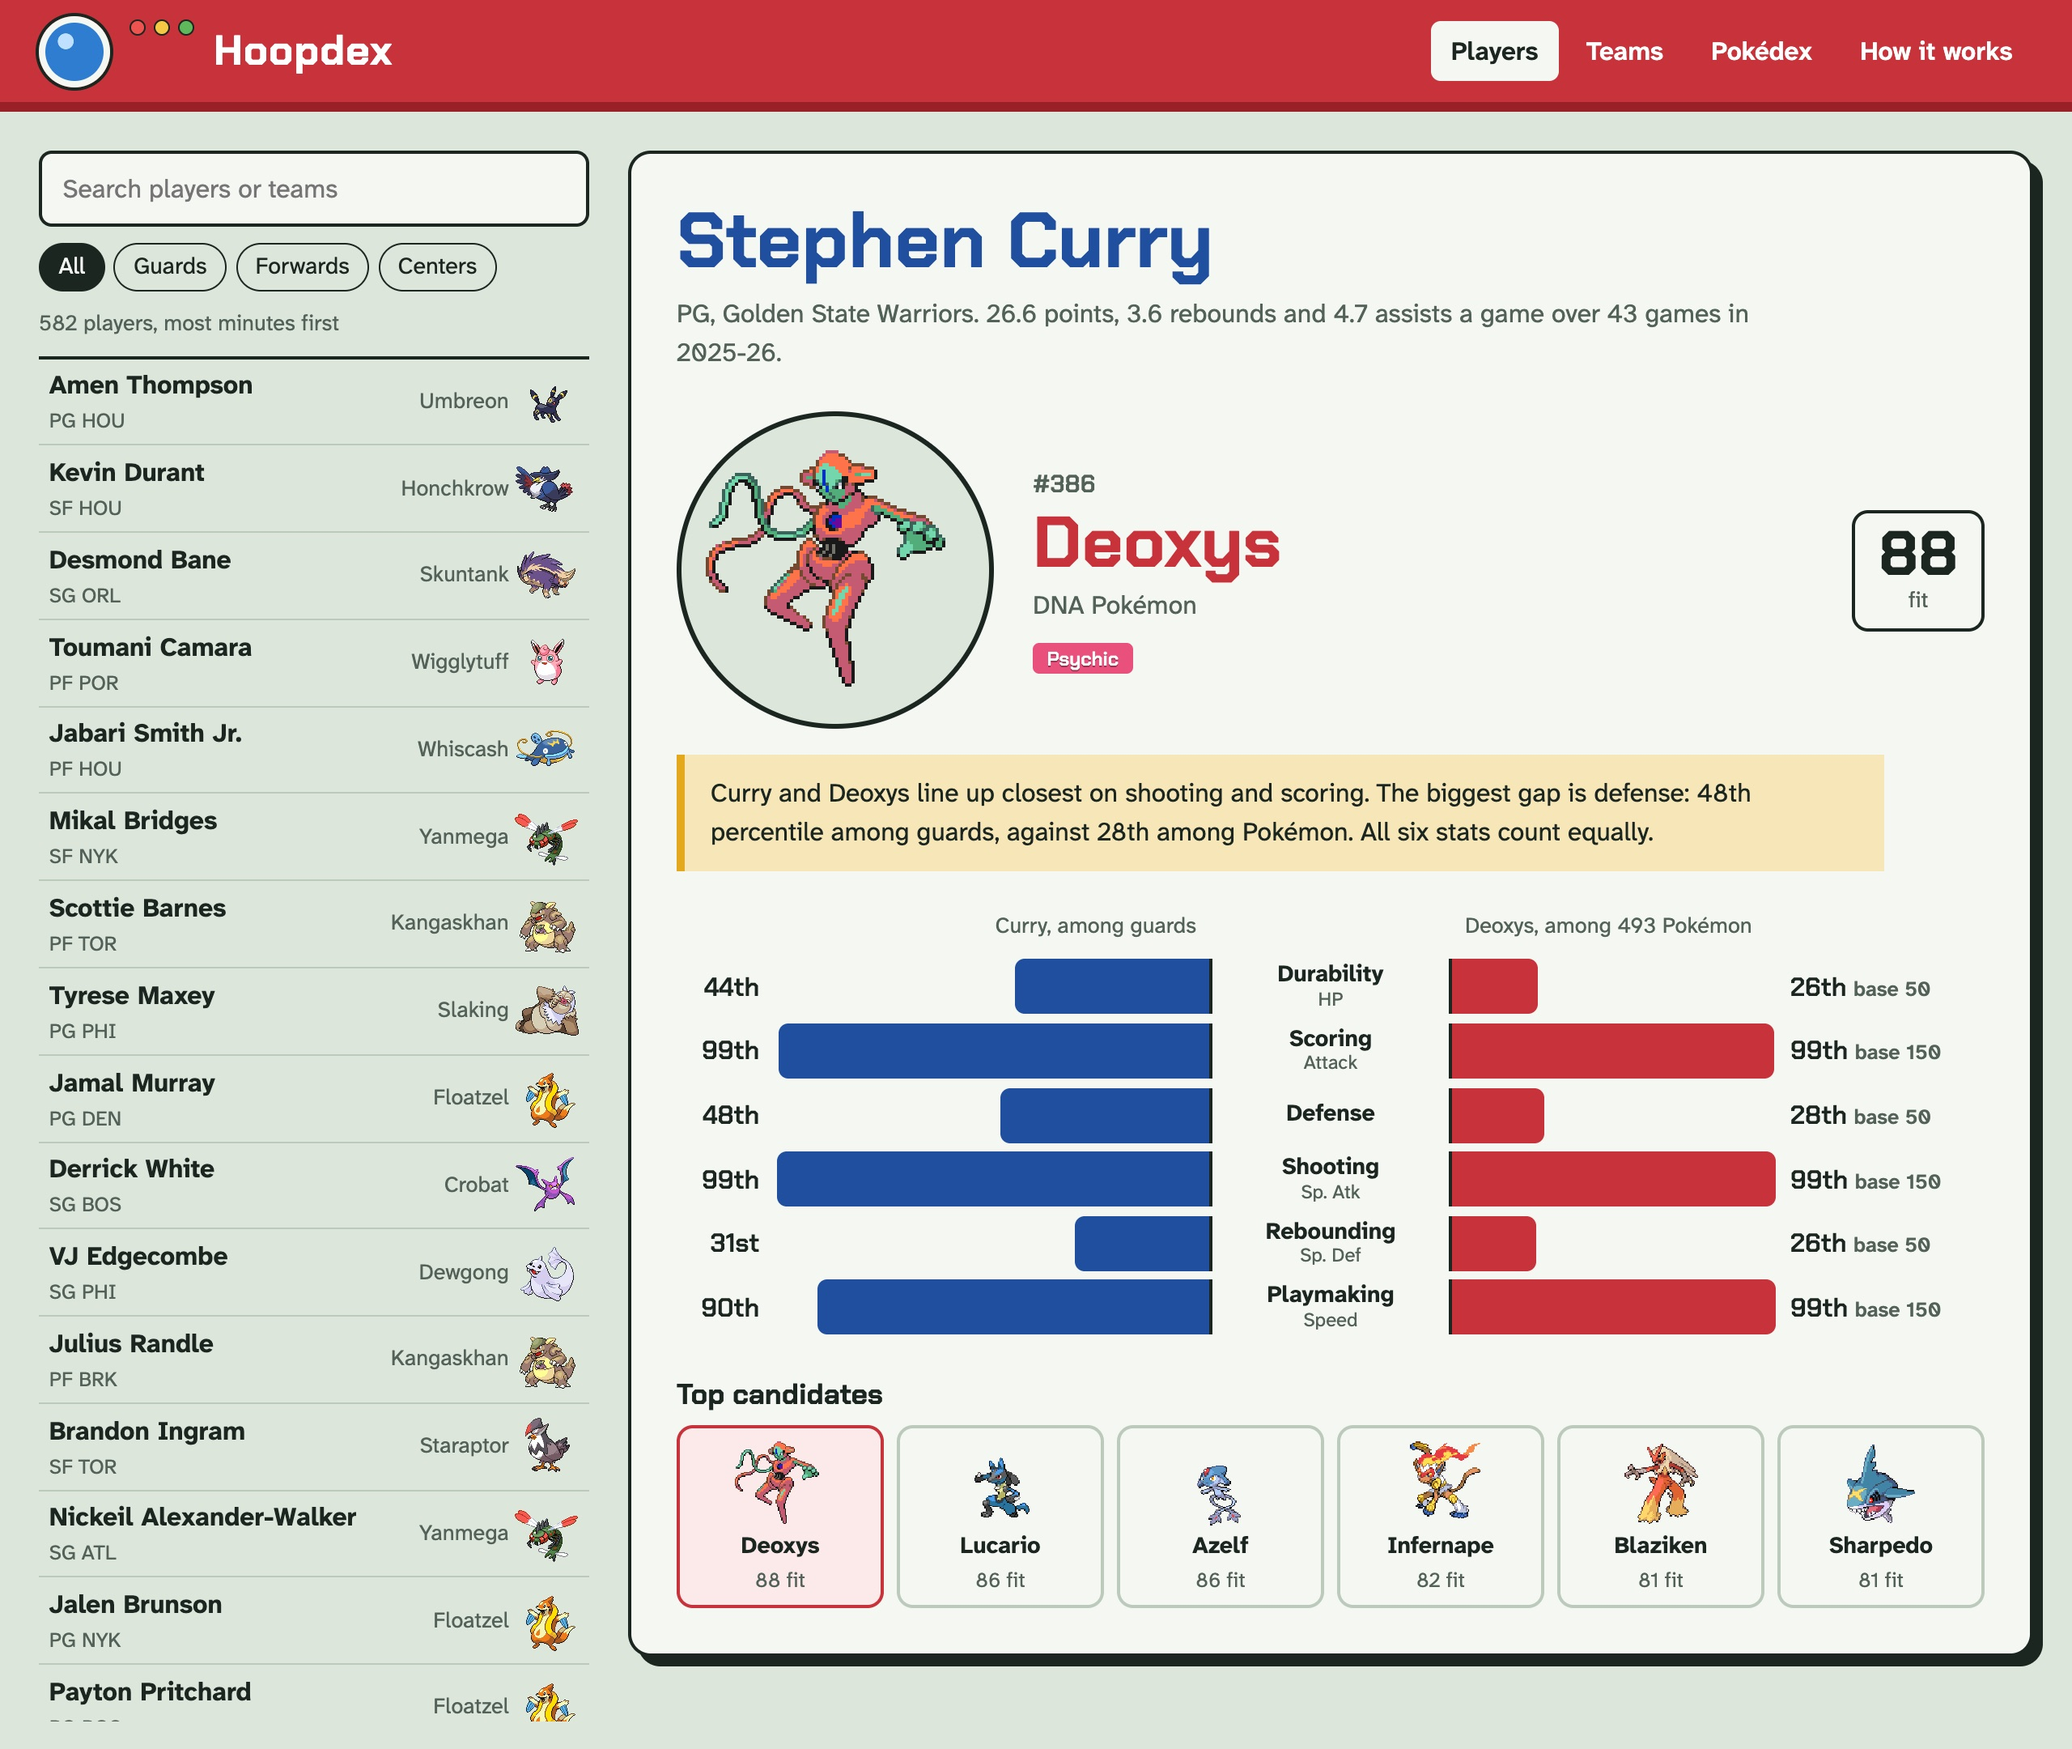
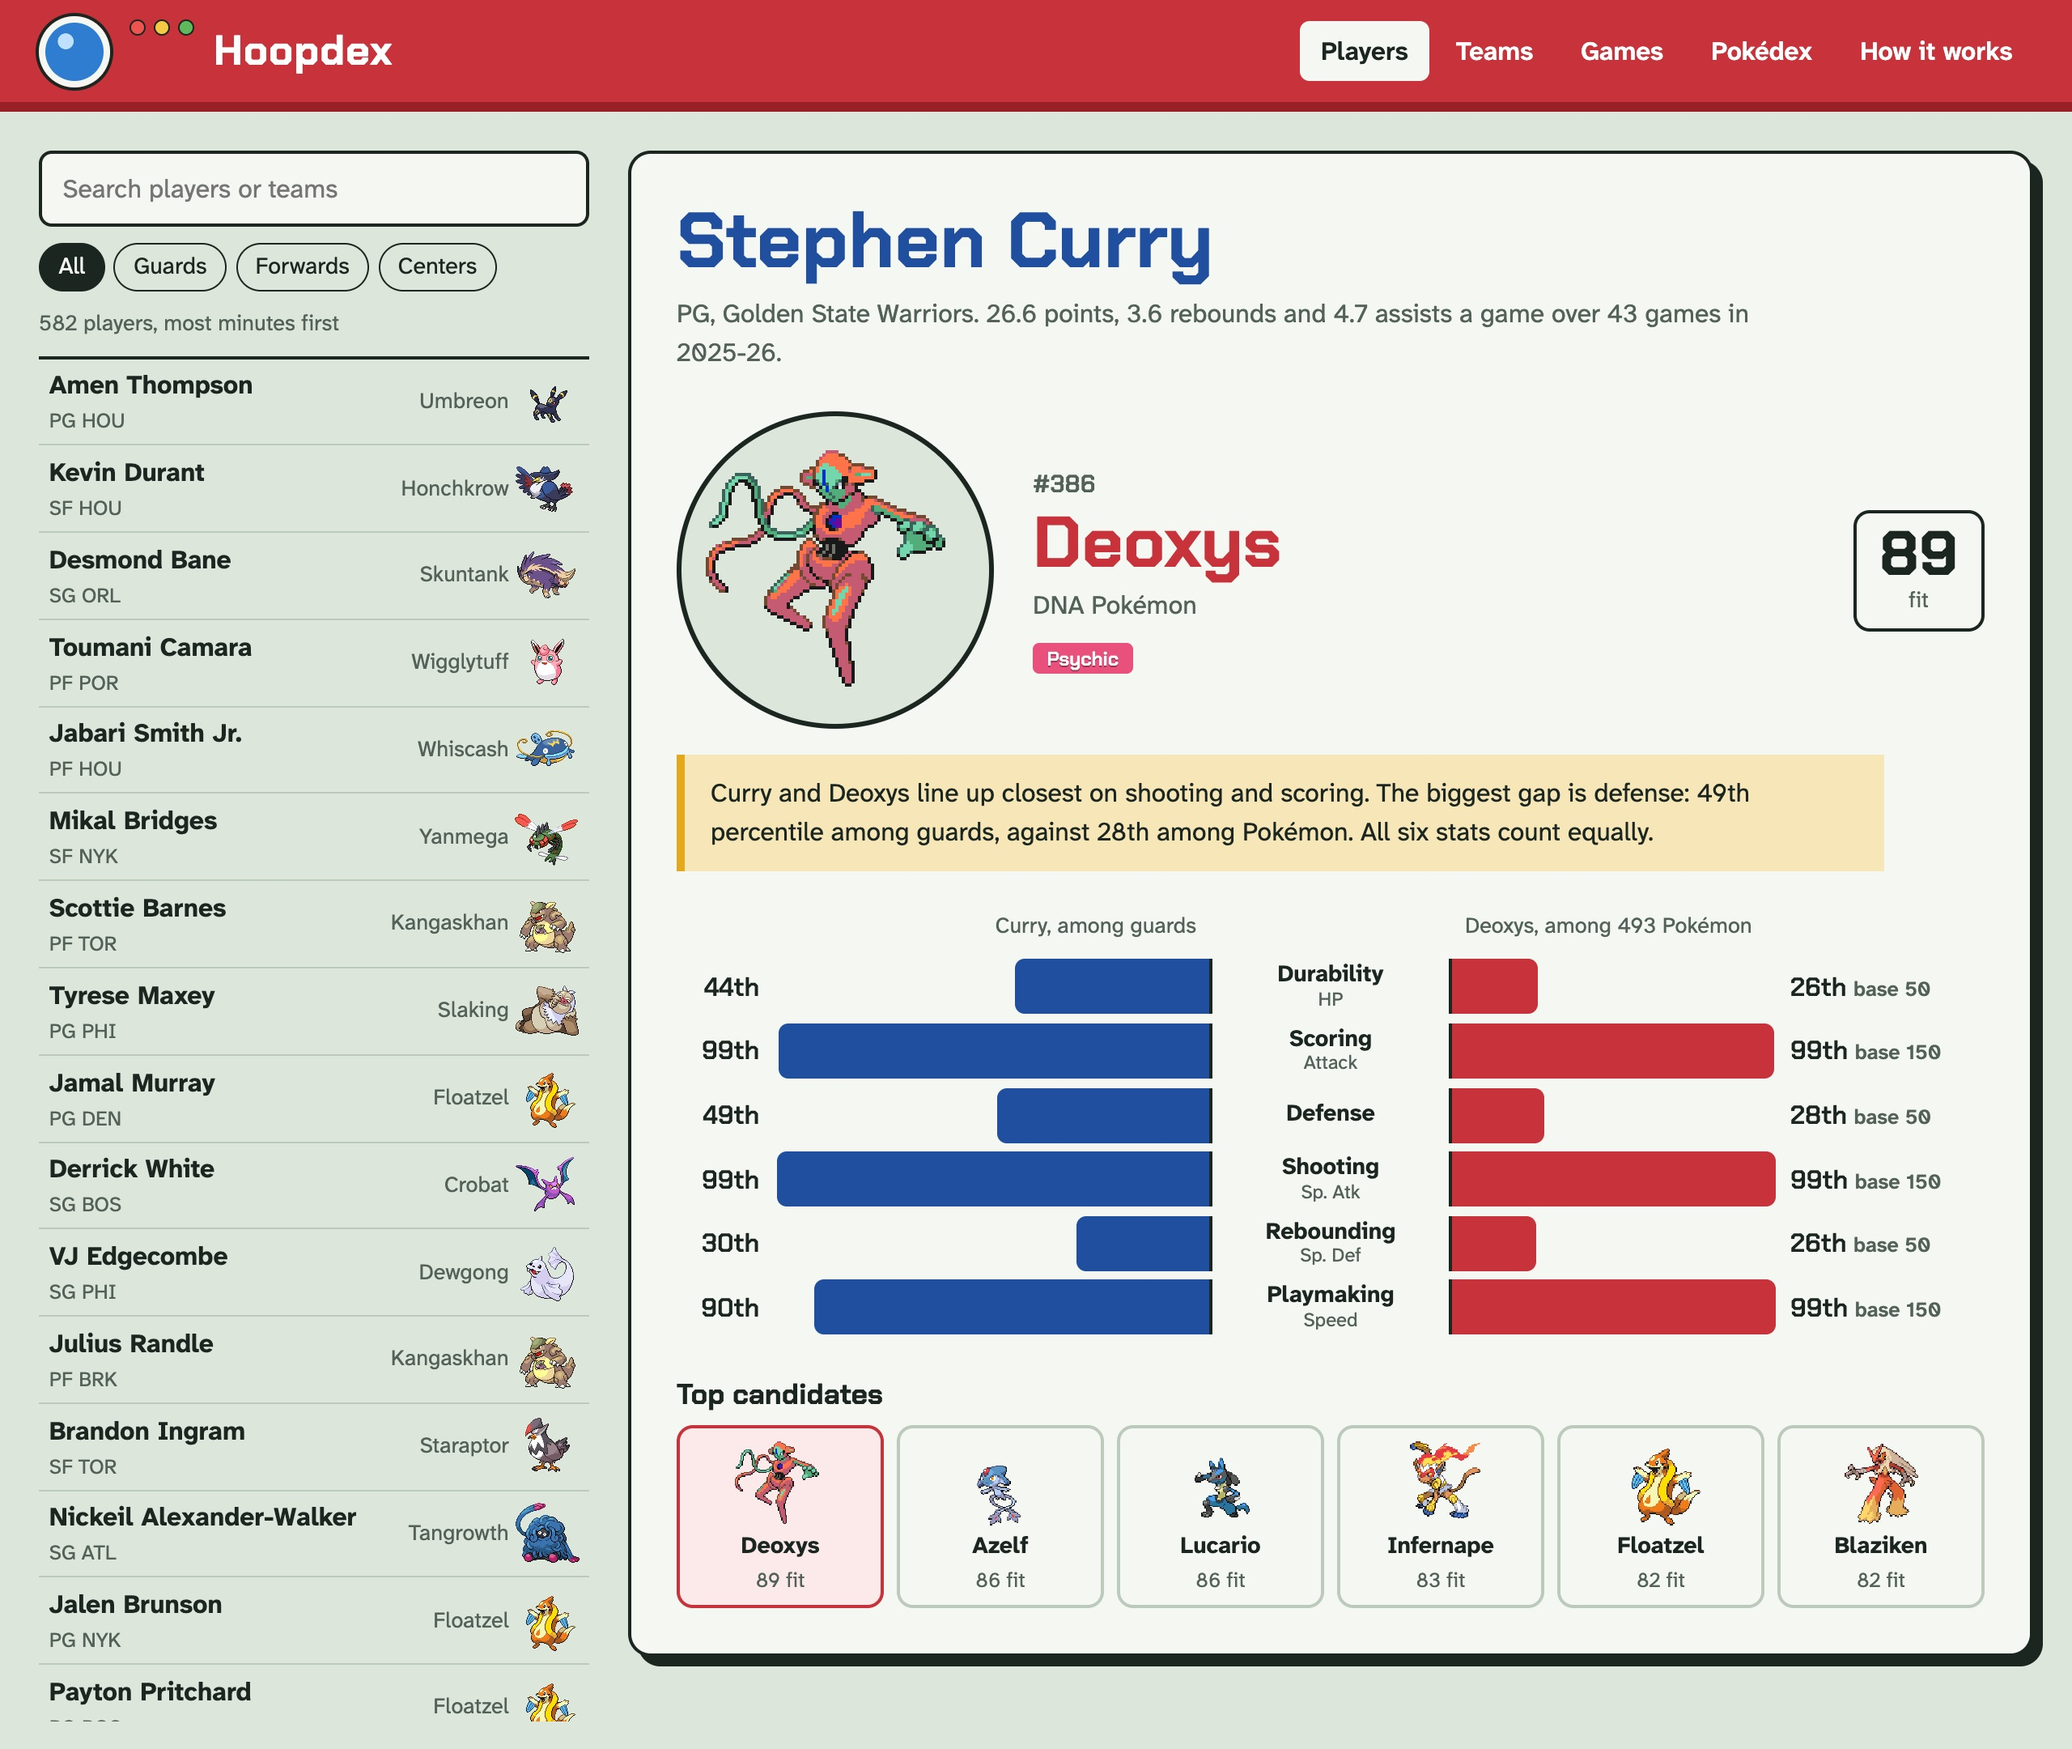
Document weighting and Games, and retake the screenshots

diff --git a/README.md b/README.md
@@ -8,8 +8,8 @@ Every NBA player matched to the Pokémon that plays like them, from Bulbasaur to
 
 Hoopdex turns a player's advanced stats and a Pokémon's base stats into percentiles, then
 finds the Pokémon whose six stats line up closest with the player's. Curry, elite at scoring,
-shooting and playmaking and average on defense, gets Deoxys. Jokić gets Rayquaza. It's
-free, needs no account, and runs entirely in your browser.
+shooting and playmaking and average on defense, gets Deoxys. Jokić and Wembanyama both get
+Groudon. It's free, needs no account, and runs entirely in your browser.
 
 ## How a player becomes a Pokémon
 
@@ -27,13 +27,28 @@ Each Pokémon stat stands for a basketball skill:
 1. **Players are ranked against their position.** Every player with 500+ minutes is ranked
    against the other guards, forwards or centers, so a forward in the 67th percentile on
    defense defends better than two thirds of forwards. Centers aren't marked down for not
-   passing like point guards. Skills with several metrics average their ranks, then rank
-   that average so it still runs from 1st to 99th.
+   passing like point guards. Skills with several metrics take a weighted average of their
+   ranks, then rank that average so it still runs from 1st to 99th.
 2. **Pokémon are ranked against the whole Pokédex.** All 493 gen 1-4 Pokémon are ranked on
    each base stat.
-3. **The closest Pokémon on all six stats wins.** Every stat counts equally, and the gap is
-   a root mean square, so one big miss costs more than several small ones. The fit score is
-   100 minus that gap: a 90 means the two sit within about ten percentile points everywhere.
+3. **Steadier numbers count for more.** Each metric is weighted by how well it holds up from
+   one season to the next for the same players, and so is each of the six stats in the match.
+   Assist rate and rebound rates are steady and count the most; true shooting and minutes
+   played (injuries) swing more and count less. See the weights below.
+4. **The closest Pokémon on all six stats wins.** All six always count, and the gap is a
+   weighted root mean square, so one big miss costs more than several small ones. The fit
+   score is 100 minus that gap: a 90 means the two sit within about ten percentile points.
+
+The weights are fitted by `scripts/reliability.ts` and were only kept because they beat equal
+weighting in a backtest. Fitted on one pair of seasons and tested on another, both ways round:
+
+| Test seasons | Profile drift, equal → weighted | Match still top 10 a year later |
+| ------------ | ------------------------------- | ------------------------------- |
+| 2024-25 → 2025-26 | 21.70 → 21.04 | 35.4% → 35.7% |
+| 2023-24 → 2024-25 | 20.04 → 19.39 | 38.5% → 41.1% |
+
+Lower drift means a player's profile moves less between seasons that the weights never saw.
+The weighted profiles were steadier in every one of 2,000 bootstrap resamples, both ways.
 
 Each card says where the pair line up closest and where they differ most. Tap any row of
 the chart to see the raw metrics behind it, or pick one of the next closest Pokémon to
@@ -41,21 +56,34 @@ compare.
 
 ![Wembanyama matched to Groudon, with the Defense row open to show his defensive metrics](docs/detail.jpg)
 
+## Games
+
+**Games** replays every real 2026-27 game as a Pokémon battle. Each team fields the six
+players who played the most minutes that night, as their Pokémon, and each Pokémon hits
+harder or softer with its player's real Game Score. The battle runs on Gen IV rules (level 50
+stats, the type chart, STAB, critical hits, the damage roll), is seeded by the game so it
+always plays out the same, and ends with match stats, a battle MVP and how the real game
+went. The page keeps a running count of how often the battle went the same way as the game.
+
+![The Thunder and the Nuggets as a Gen IV battle: Floatzel against Slaking, with HP bars and the battle text box](docs/battle.jpg)
+
+![Match stats after a battle: the battle MVP, knockouts, damage, super-effective hits, and each Pokémon's real box score line](docs/match-stats.jpg)
+
 ## Teams and the Pokédex
 
 **Teams** shows every roster as a six-Pokémon party: the six players with the most minutes
 per game, and the bench behind them.
 
-![The Golden State Warriors as a party: Butler as Rapidash, Curry as Deoxys, Green as Azumarill](docs/teams.jpg)
+![The Golden State Warriors as a party: Butler as Primeape, Curry as Deoxys, Green as Medicham](docs/teams.jpg)
 
 **Pokédex** goes the other way: all 493 Pokémon, filterable by region, each showing which
 players landed on it. Pokémon nobody matched are greyed out.
 
-![Wigglytuff's Pokédex entry with its base stats and the five players matched to it](docs/pokedex.jpg)
+![Wigglytuff's Pokédex entry with its base stats and the six players matched to it](docs/pokedex.jpg)
 
 It works on a phone too.
 
-<img src="docs/mobile.jpg" alt="Jokić matched to Rayquaza on a phone" width="300" />
+<img src="docs/mobile.jpg" alt="Jokić matched to Groudon on a phone" width="300" />
 
 ## Run it yourself
 
@@ -75,8 +103,17 @@ its rate limit) and the gen 1-4 Pokédex from PokeAPI's GraphQL API. stats.nba.c
 requests that don't come from a browser, which is why player stats come from
 Basketball-Reference.
 
-`bun test` checks the percentile math and that every player's match really is the closest
-Pokémon in the Pokédex.
+```sh
+bun run games     # this season's results and box scores into public/games.json
+bun run weights   # refit and backtest the weights; add --write to save them
+```
+
+`bun run games` only fetches games it doesn't have yet. The Pages workflow runs it every
+morning, so the site picks up the night's games on its own.
+
+`bun test` checks the percentile math, the weights, that every player's match really is the
+closest Pokémon, and the battle engine (type chart, stat formulas, lineups, and that a game
+always replays the same).
 
 ## Data
 
@@ -84,6 +121,8 @@ Pokémon in the Pokédex.
   [Basketball-Reference](https://www.basketball-reference.com/). Teams are where each player
   has played in 2026-27, or their last 2025-26 team. Rookies appear once they have a season
   of minutes.
+- Games: 2026-27 results, line scores and box scores from Basketball-Reference. The weights
+  were fitted on its 2023-24, 2024-25 and 2025-26 seasons.
 - Pokémon stats, names and Platinum sprites: [PokeAPI](https://pokeapi.co/). Base stats
   reflect the latest games, so a few early Pokémon carry their Generation VI boosts.
 
